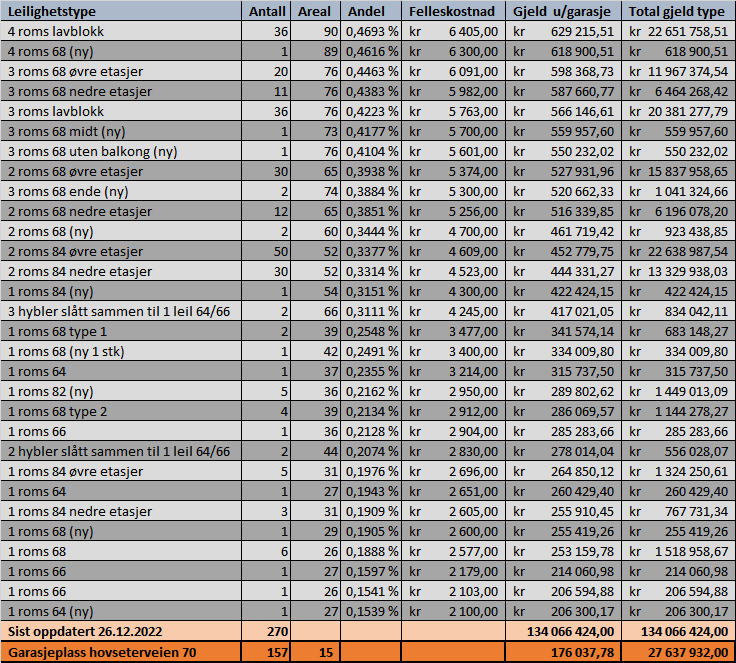
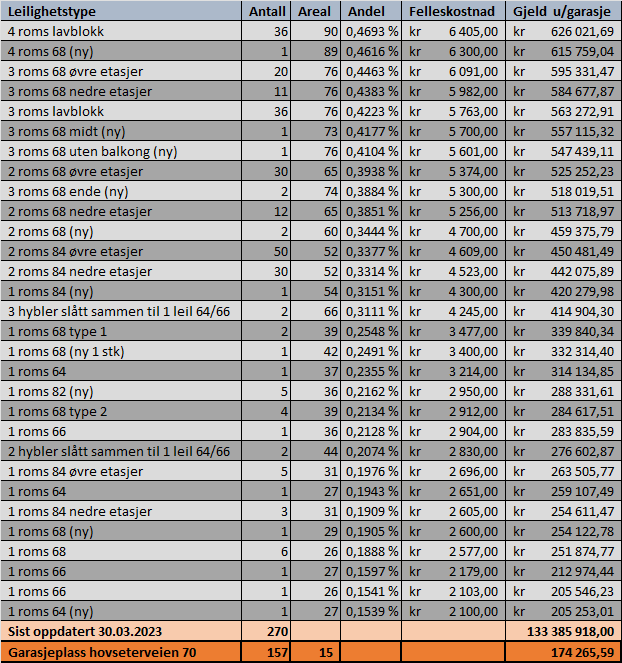
updates

Changed region(s): [[0.0, 0.0, 1.0, 0.9955], [0.672, 0.9653, 0.7026, 0.9955]]

diff --git a/content/forowners/finance/_index.md b/content/forowners/finance/_index.md
@@ -37,32 +37,32 @@ Grafen nedenfor viser utviklingen av felleskostnader over tid for utvalge leilig
 
 Borettslaget har forskjellige lån tatt opp til forskjellige behov over tid. Eksempler på lån som er tatt opp nylig er rør og våtromsprosjektet, kjøp av garasje og fasadeprosjekt.
 
-Lånene er totalt på 163 091 247,- (05.08.2022)
+Lånene er totalt på 160 745 615,- (30.03.2023)
 
 ### OBBK02
 
-- Saldo: 28.008.912,-
+- Saldo: 27.359.697,-
 - Månedlig terminer til september 2047
 
 Gjelder kjøp av garasjer i Hovseterveien 70. Fordeles på leiligheter med garasje i Hovseterveien 70 (157 plasser)
 
 ### OBBK04
 
-- Saldo: 54.776.840,-
+- Saldo: 53.918.614,-
 - Månedlig terminer til november 2047
 
 Lån til bad og våtroms rehabilitering.
 
 ### OBOS08
 
-- Saldo: 74.041.525,-
+- Saldo: 73.373.718,-
 - Månedlig terminer til april 2059
 
-Lån til fasadeprosjekt. Dette er nå fullt ut belastet og vil ikke øke mer.
+Lån til fasadeprosjekt. 
 
 ### OBOS09
 
-- Saldo: 6.263.970,-
+- Saldo: 6.093.586,-
 - Månedlig terminer til april 2039
 
 Lån til tidligere vedlikehold.
